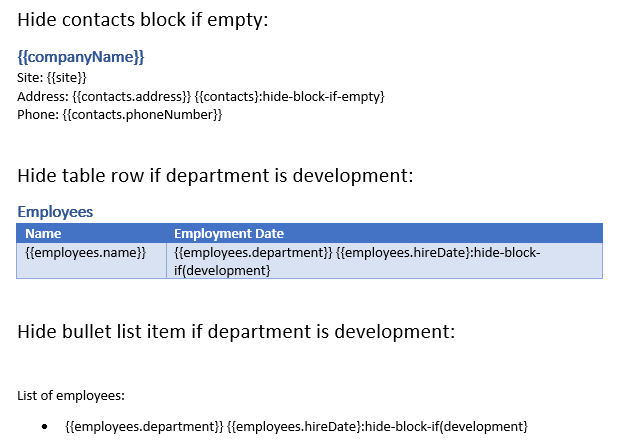
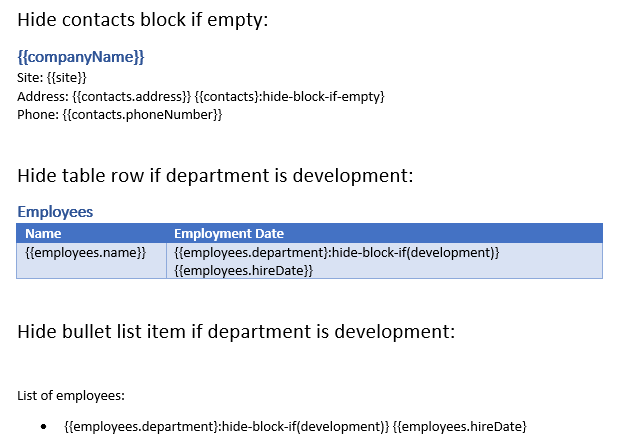
Fixed the demo for the hide-block-if() formatter.

Changed region(s): [[0.0908, 0.9375, 0.8471, 0.9688], [0.5143, 0.5312, 0.8471, 0.5938], [0.2723, 0.5938, 0.5143, 0.625]]

diff --git a/source/document-generation/docx/demos.rst b/source/document-generation/docx/demos.rst
@@ -632,15 +632,18 @@ Scroll down to see source data for the template in JSON format.
         "employees": [
             {
                 "name": "Derek Clark",
-                "hireDate": "2012-04-21T18:25:43-05:00"
+                "hireDate": "2012-04-21T18:25:43-05:00",
+                "department":"marketing"
             },
             {
                 "name": "Jessica Adams",
-                "hireDate": null
+                "hireDate": null,
+                "department":"sales"
             },
             {
                 "name": "Anil Mittal",
-                "hireDate": "2016-04-11T14:22:13-02:00"
+                "hireDate": "2016-04-11T14:22:13-02:00",
+                "department":"development"
             }
         ]
     }
